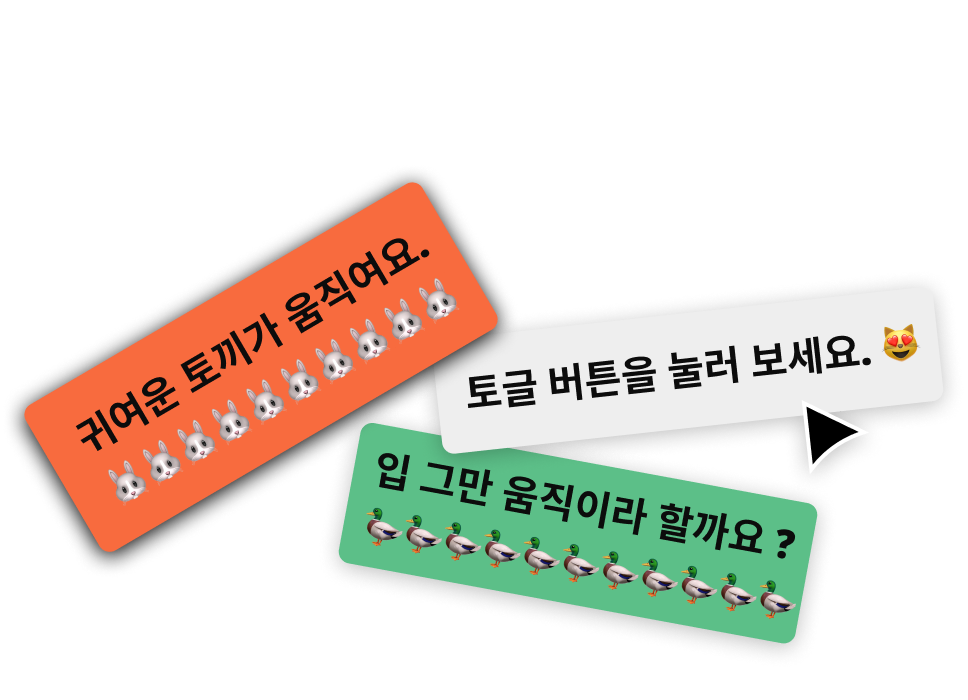
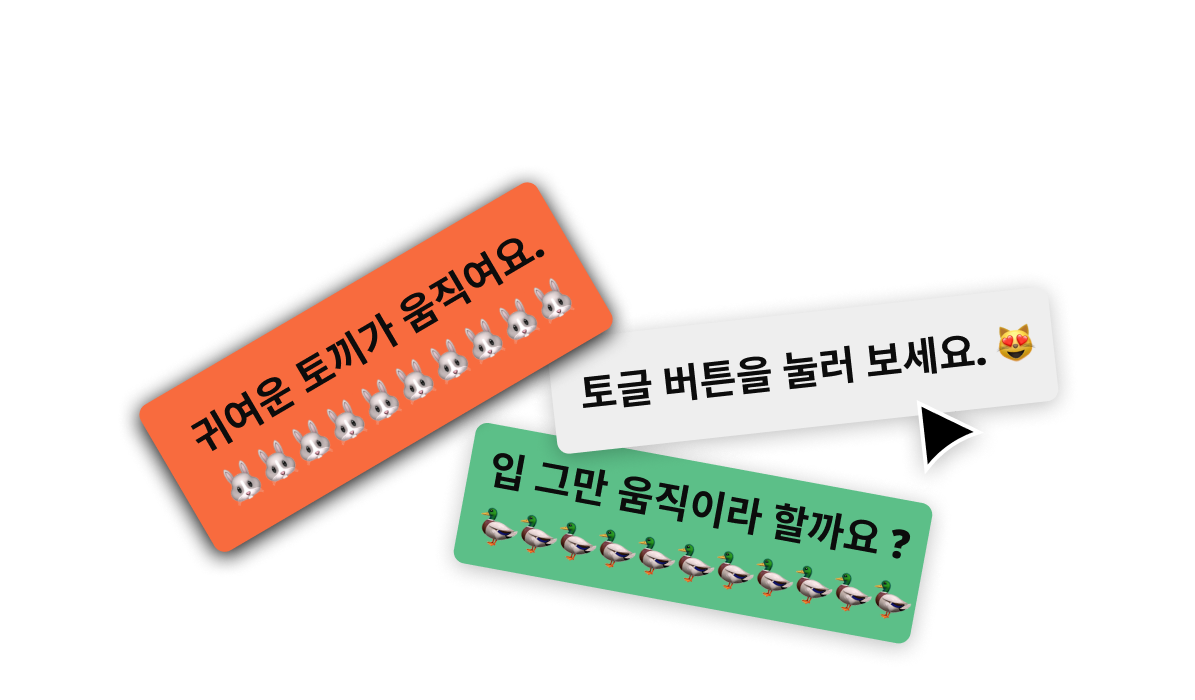
홈 수정 중

Changed region(s): [[0.0, 0.24, 0.9607, 0.93], [0.7438, 0.57, 0.9607, 0.66]]

diff --git a/src/App.vue b/src/App.vue
@@ -1,4 +1,9 @@
 <template>
+  
+  <!-- :autoplay="{
+        delay: 6000,
+        disableOnInteraction: true,
+      }" -->
   <div class="wrapper" :class="[]">
     <!-- (detailPage && scroll == 0) || scroll !== 0 ? 'scroll_down' : '' -->
     <TheHeader :list="menu" :sectionInfo="sectionInfo" :width="width" />
@@ -11,10 +16,6 @@
       :speed="800"
       :pagination="true"
       :modules="modules"
-      :autoplay="{
-        delay: 6000,
-        disableOnInteraction: true,
-      }"
       class="main_swiper"
       >
         <swiper-slide v-for="(info, idx) in mainSwiper" :key="idx">
@@ -22,9 +23,7 @@
             <div class="category round_cont">
               <span class="category_text cont" v-html="info.category" :style="`background-color: ${info.color}`"></span>
             </div>
-            <span class="title" v-html="info.title"></span>
-            <p class="desc" v-html="info.desc"></p>
-            <img :src="info.img" alt="" class="img">
+            <img :src="info.img" :alt="info.alt" class="img">
             <div class="link_btn_wrap round_cont">
               <div class="link_btn cont" aria-label="보러가기" :style="`background-color: ${info.color}`">
                 <TheIcon size="lg" icon="arrow4" rotate="270" />
@@ -34,12 +33,9 @@
         </swiper-slide>
       </swiper>
       <section class="section">
-        <h2 class="section_title" v-if="sectionInfo.meta.title && !detailPage">
-          {{ sectionInfo.meta.title }}
-          <!-- <TheIcon size="xxl" :icon="sectionInfo.meta.icon" margin="left" /> -->
-        </h2>
-        <p class="section_text" v-if="!detailPage">{{ sectionInfo.meta.text }}</p>
-        <router-view :key="$route.fullPath" :list="detailInfo" :sectionInfo="sectionInfo"></router-view>
+        <h2 class="section_title" v-if="sectionInfo.meta.title && !detailPage" v-html="sectionInfo.meta.title"></h2>
+        <p class="section_text" v-if="!detailPage" v-html="sectionInfo.meta.text"></p>
+        <router-view :key="$route.fullPath" :list="detailInfo" :sectionInfo="sectionInfo" :width="width"></router-view>
       </section>
     </div>
 
@@ -86,7 +82,8 @@ export default {
           title: '',
           desc: '',
           img: require('./assets/images/main_banner1.png'),
-          link: '/detail/1'
+          link: '/detail/1',
+          alt: 'hello! let me introduce my portfolio.'
         },
         {
           color: '#0C0C0C',
@@ -94,7 +91,8 @@ export default {
           title: '',
           desc: '',
           img: require('./assets/images/main_banner2.png'),
-          link: '/projects'
+          link: '/projects',
+          alt: '프론트 작업 외의 저의 취미를 구경해 보실래요? 귀여운 토끼가 움직여요. 토글버튼을 눌러 보세요. 입 그만 움직이라 할까요? Go hobby menu'
         },
       ],
       menu,

diff --git a/src/assets/style/style.scss b/src/assets/style/style.scss
@@ -212,7 +212,6 @@
 
     .swiper-wrapper {
         .swiper-slide {
-            border-radius: 20px;
             width: calc(100% - 100px);
             height: 700px;
             border-radius: 20px 0 20px 0;
@@ -242,7 +241,7 @@
                 flex-direction: column;
                 justify-content: center;
                 align-items: flex-start;
-                padding: 34px;
+                padding: 0 34px;
                 opacity: 1;
                 position: relative;
             }
@@ -337,13 +336,6 @@
             }
 
             .img {
-                position: absolute;
-                width: auto;
-                height: auto;
-                top: 50%;
-                left: 50%;
-                z-index: 1;
-                transform: translate(-50%, -50%);
             }
         }
     }
@@ -832,7 +824,6 @@
             width: calc((100% - 40px) / 2);
             background-color: gray;
             border-radius: 20px;
-            height: 400px;
 
             * {
                 color: #fff;
@@ -846,11 +837,13 @@
                 margin-right: 40px;
             }
 
-            > .container {
+            > .item_cont {
                 padding: 40px;
                 display: flex;
                 flex-direction: column;
                 align-items: center;
+                justify-content: center;
+                height: 100%;
 
                 .title {
                     font-size: 26px;
@@ -1564,9 +1557,11 @@
     
             > .item {
                 width: 100%;
-                background-color: gray;
                 border-radius: 20px;
-                height: 500px;
+
+                > .container {
+                    padding: 20px;
+                }
     
                 &:not(:nth-last-child(-n+2)){
                     margin-bottom: 0;
@@ -1577,7 +1572,7 @@
                 }
 
                 + .item {
-                    margin-top: 40px;
+                    margin-top: 20px;
                 }
             }
         }
@@ -1624,6 +1619,14 @@
                 width: calc(100% - 40px);
                 transform: none;
             }
+
+            .visual_title {
+                display: flex;
+            }
+
+            .recommend {
+                position: static;
+            }
         }
     
         .info_wrap {
@@ -1645,16 +1648,13 @@
 
 @media (max-width: 600px) {
     .main_swiper {
-        display: flex;
-        flex-direction: column;
-        align-items: center;
-        
-        & .swiper-wrapper {
+        .swiper-wrapper {
             .swiper-slide {
-                width: calc(100% - 30px);
-
+                width: 100%;
+                height: 400px;
+    
                 > .container {
-                    padding: var(--layout-padding);
+                    padding: 0;
                 }
             }
         }

diff --git a/src/pages/TheHome.vue b/src/pages/TheHome.vue
@@ -3,16 +3,10 @@
         <h3 class="article_title">ABOUT ME & COMPONENTS</h3>
         <div class="list_type4">
             <ul class="list">
-                <li class="item item1">
-                    <router-link to="/aboutMe" class="container">
-                        <span class="title">안녕하세요! 김윤정입니다. 🥰<br>제 소개를 한 번 보시겠어요?</span>
-                        <p class="desc">ABOUT ME 바로가기</p>
-                    </router-link>
-                </li>
-                <li class="item item2">
-                    <router-link to="/components" class="container">
-                        <span class="title">CodePen으로 보여주는!<br>다양한 컴포넌트가<br>궁금하지 않으신가요?</span>
-                        <span class="desc">COMPONENTS 바로가기</span>
+                <li :class="['item', item.class]" v-for="(item, idx) in introList" :key="idx">
+                    <router-link :to="item.link" class="item_cont">
+                        <span class="title" v-html="item.text"></span>
+                        <p class="desc" v-html="item.desc"></p>
                     </router-link>
                 </li>
             </ul>
@@ -37,7 +31,20 @@ export default {
     name: 'TheHome',
     data(){
         return {
-            
+            introList: [
+                {
+                    text: '안녕하세요! 김윤정입니다. 🥰<br>제 소개를 한 번 보시겠어요?',
+                    desc: 'ABOUT ME 바로가기',
+                    link: '/aboutMe',
+                    class: 'item1'
+                },
+                {
+                    text: 'CodePen으로 보여주는!<br>다양한 컴포넌트가<br>궁금하지 않으신가요?',
+                    desc: 'COMPONENTS 바로가기',
+                    link: '/components',
+                    class: 'item2'
+                },
+            ]
         }
     },
     computed: {

diff --git a/src/pages/TheComponents.vue b/src/pages/TheComponents.vue
@@ -1,5 +1,5 @@
 <template>
-    <TheTab type="2" :tabs="tabs" :handler="true" @tabSelected="tabSelected = $event">
+    <TheTab type="2" :tabs="tabs" :handler="width < 600" @tabSelected="tabSelected = $event">
         <template v-slot:tabPanel1>
             <iframe height="600" style="width: 100%;" scrolling="no" title="Untitled" src="https://codepen.io/yoonjeongkim0224/embed/poXewEQ?default-tab=html%2Cresult" frameborder="no" loading="lazy" allowtransparency="true" allowfullscreen="true">
             See the Pen <a href="https://codepen.io/yoonjeongkim0224/pen/poXewEQ">
@@ -76,7 +76,8 @@ export default {
         }
     },
     props: {
-        list: Object
+        list: Object,
+        width: String
     },
     components: {
         TheTab

diff --git a/src/menu.js b/src/menu.js
@@ -21,7 +21,7 @@ const menu = [
     path: '/components',
     meta: {
       title: 'Components',
-      text: '제가 만든 다양한 컴포넌트를 소개합니다.',
+      text: '제가 만든 다양한 컴포넌트를 소개합니다.<br>2024년 8월부터 천천히 업로드 중입니다. 조금만 기다려주세요! 😭',
       // icon: 'sawtooth1',
     },
     component: () => import('@/pages/TheComponents.vue')
